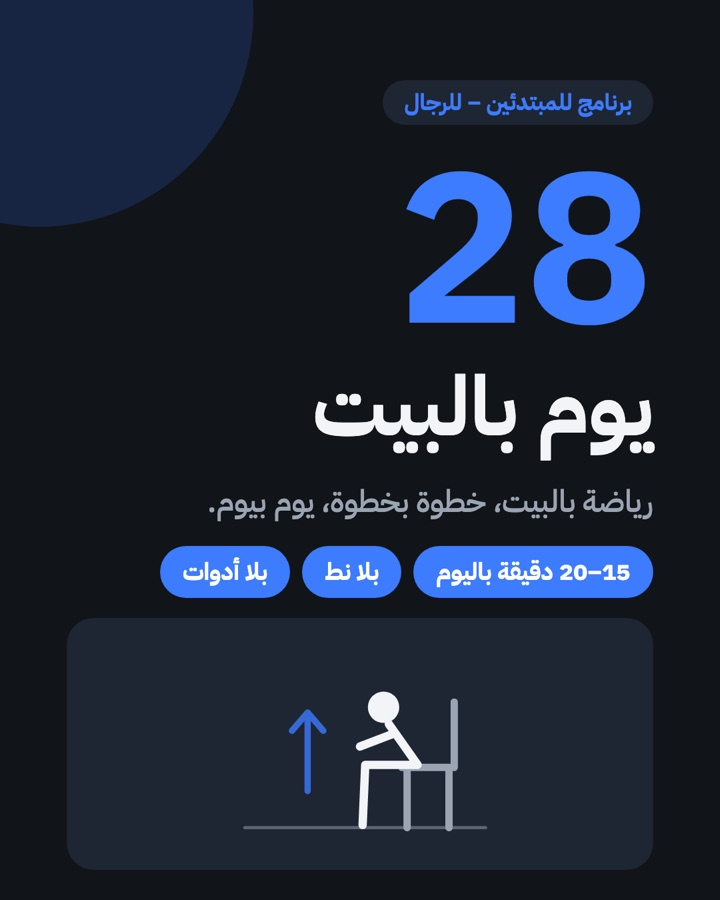
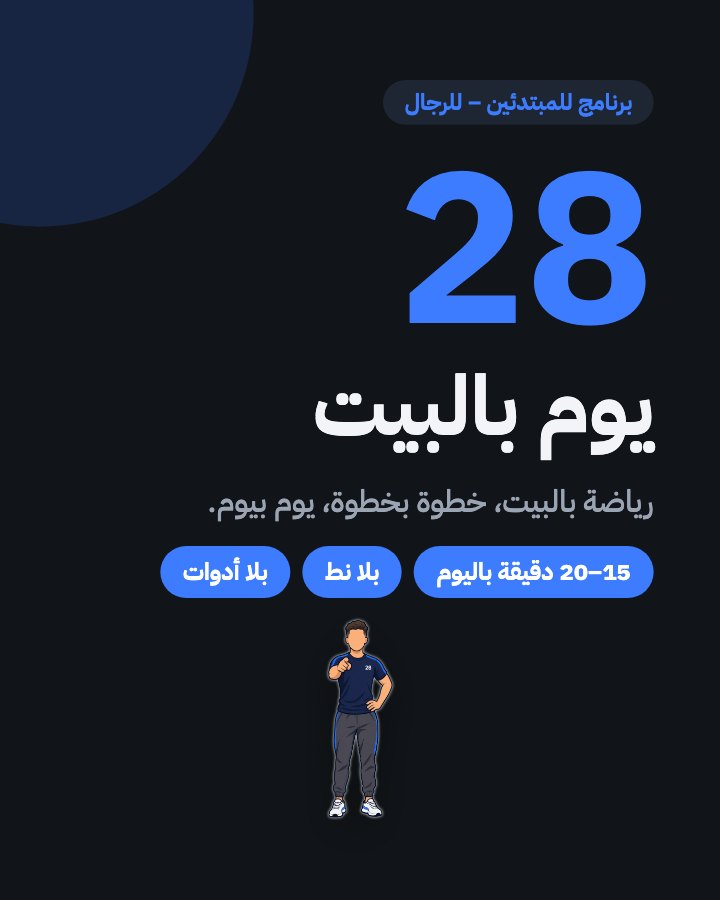
Site uses the new mascot character: new page previews, mascot rep in hero, mascots on plans and final section

diff --git a/index.html b/index.html
@@ -7,7 +7,7 @@
 <meta name="description" content="برنامج رياضة بالبيت للمبتدئين: 28 يوم جاهزين، 15 لـ20 دقيقة باليوم، بلا نط وبلا أدوات. نسخة للنساء ونسخة للرجال، PDF على تلفونك بـ15$.">
 <meta property="og:title" content="28 يوم بالبيت">
 <meta property="og:description" content="رياضة بالبيت، 15 لـ20 دقيقة باليوم، بلا نط وبلا أدوات.">
-<meta property="og:image" content="img/cover-women.jpg">
+<meta property="og:image" content="https://bilbeit.kachakech.tech/img/cover-women.jpg">
 <meta name="theme-color" content="#FBF5EF">
 <link rel="icon" href="img/favicon.svg" type="image/svg+xml">
 <link rel="preconnect" href="https://fonts.googleapis.com">
@@ -51,21 +51,8 @@
         <div class="phone"><img src="img/cover-women.jpg" alt="" width="720" height="900"></div>
         <div class="phone phone-back"><img src="img/cover-men.jpg" alt="" width="720" height="900"></div>
         <div class="fig-card">
-          <!-- SMIL animation: works in Safari, Chrome and Firefox (CSS "d" animation does not work in Safari). -->
-          <svg viewBox="0 0 600 420" class="hero-svg"><line x1="80" y1="370" x2="540" y2="370" class="ground"/>
-            <path d="M380 255 H480 M480 255 V130 M390 255 V370 M470 255 V370" class="prop"/>
-            <path d="M200 300 V150 M170 185 L200 150 L230 185" class="hint">
-              <animateTransform attributeName="transform" type="translate" values="0 0;0 -18;0 0" dur="1.5s" repeatCount="indefinite"/></path>
-            <circle cx="345" cy="140" r="30" class="fig">
-              <animate attributeName="cx" values="345;345;330;330;345" keyTimes="0;.15;.5;.65;1" dur="3s" repeatCount="indefinite"
-                       calcMode="spline" keySplines=".45 0 .55 1;.45 0 .55 1;.45 0 .55 1;.45 0 .55 1"/>
-              <animate attributeName="cy" values="140;140;62;62;140" keyTimes="0;.15;.5;.65;1" dur="3s" repeatCount="indefinite"
-                       calcMode="spline" keySplines=".45 0 .55 1;.45 0 .55 1;.45 0 .55 1;.45 0 .55 1"/></circle>
-            <path d="M355 172 L410 250 M410 250 L310 250 L305 365 M365 190 L300 215" class="fig">
-              <animate attributeName="d" keyTimes="0;.15;.5;.65;1" dur="3s" repeatCount="indefinite" calcMode="spline"
-                       keySplines=".45 0 .55 1;.45 0 .55 1;.45 0 .55 1;.45 0 .55 1"
-                       values="M355 172 L410 250 M410 250 L310 250 L305 365 M365 190 L300 215;M355 172 L410 250 M410 250 L310 250 L305 365 M365 190 L300 215;M330 95 L335 225 M335 225 L328 295 L310 365 M332 125 L262 150;M330 95 L335 225 M335 225 L328 295 L310 365 M332 125 L262 150;M355 172 L410 250 M410 250 L310 250 L305 365 M365 190 L300 215"/></path>
-          </svg>
+          <!-- Two poses of the same move swap like a rep (sit-w-a = standing, sit-w-b = down). -->
+          <div class="rep"><img class="rep-a" src="img/sit-w-a.webp" alt="" width="380" height="640"><img class="rep-b" src="img/sit-w-b.webp" alt="" width="380" height="640"></div>
           <p class="fig-cap"><b>قعود وقيام عن الكرسي</b><span>10 مرات · يوم 1</span></p>
         </div>
       </div>
@@ -128,9 +115,12 @@
       <p class="sub center">دفعة وحدة، بلا اشتراك. الملف إلك للأبد.</p>
       <div class="plans">
         <article class="plan" id="buy-women">
-          <span class="chip">للنساء</span>
-          <h3>28 يوم بالبيت – للنساء</h3>
-          <p class="price"><span>15$</span> مرة وحدة</p>
+          <div class="plan-head">
+            <div><span class="chip">للنساء</span>
+              <h3>28 يوم بالبيت – للنساء</h3>
+              <p class="price"><span>15$</span> مرة وحدة</p></div>
+            <img src="img/mascot-w.webp" alt="" width="308" height="720" loading="lazy">
+          </div>
           <ul class="ticks">
             <li>28 يوم جاهزين، 15 لـ20 دقيقة</li><li>13 حركة مشروحة بالرسم</li>
             <li>بلا نط، والجيران ما بيسمعوا شي</li><li>اختبار، جدول، وصفحة سلامة</li>
@@ -138,9 +128,12 @@
           <a class="btn btn-block" data-checkout="women" href="#">اشتري نسخة النساء</a>
         </article>
         <article class="plan plan-dark" id="buy-men">
-          <span class="chip">للرجال</span>
-          <h3>28 يوم بالبيت – للرجال</h3>
-          <p class="price"><span>15$</span> مرة وحدة</p>
+          <div class="plan-head">
+            <div><span class="chip">للرجال</span>
+              <h3>28 يوم بالبيت – للرجال</h3>
+              <p class="price"><span>15$</span> مرة وحدة</p></div>
+            <img src="img/mascot-m.webp" alt="" width="235" height="720" loading="lazy">
+          </div>
           <ul class="ticks">
             <li>28 يوم جاهزين، 15 لـ20 دقيقة</li><li>13 حركة مشروحة بالرسم</li>
             <li>قوة ولياقة بالبيت، بلا نادي</li><li>اختبار، جدول، وصفحة سلامة</li>
@@ -198,6 +191,7 @@
   <section class="sec final">
     <svg class="waves" viewBox="0 0 1440 400" preserveAspectRatio="xMidYMid slice" aria-hidden="true"><g class="bg-drift"><path d="M0 70 Q90 48 180 70 T360 70 T540 70 T720 70 T900 70 T1080 70 T1260 70 T1440 70 T1620 70 T1800 70 T1980 70 T2160 70 T2340 70 T2520 70 T2700 70 T2880 70"/><path d="M0 340 Q90 312 180 340 T360 340 T540 340 T720 340 T900 340 T1080 340 T1260 340 T1440 340 T1620 340 T1800 340 T1980 340 T2160 340 T2340 340 T2520 340 T2700 340 T2880 340"/></g></svg>
     <div class="wrap center">
+      <div class="duo" aria-hidden="true"><img src="img/mascot-w.webp" alt="" width="308" height="720" loading="lazy"><img src="img/mascot-m.webp" alt="" width="235" height="720" loading="lazy"></div>
       <h2 class="h2">أحسن يوم لتبلّش هو اليوم.</h2>
       <p class="sub">ولو 10 دقايق.</p>
       <div class="cta-row center-row">

diff --git a/style.css b/style.css
@@ -62,12 +62,13 @@ h1 { font-size: clamp(36px, 9vw, 64px); line-height: 1.2; margin: var(--s2) 0; }
 .phone-back { right: auto; left: 4%; top: 46px; width: 52%; transform: rotate(-6deg); z-index: 1; border-color: var(--dark); }
 .fig-card { position: absolute; bottom: 0; left: 0; width: 50%; background: var(--surface); border-radius: var(--r-md);
             box-shadow: var(--shadow); padding: 8px; z-index: 3; }
-.fig-card svg { width: 100%; height: auto; display: block; }
-.fig { fill: none; stroke: var(--text); stroke-width: 16; stroke-linecap: round; stroke-linejoin: round; }
-circle.fig { fill: var(--text); stroke: none; }
-.prop { fill: none; stroke: #9c8d86; stroke-width: 14; stroke-linecap: round; }
-.ground { stroke: #9c8d86; stroke-width: 6; stroke-linecap: round; opacity: .5; }
-.hint { fill: none; stroke: var(--accent); stroke-width: 12; stroke-linecap: round; stroke-linejoin: round; opacity: .85; }
+/* Mascot rep: two poses swap like one repetition. */
+.rep { position: relative; height: 190px; background: var(--soft); border-radius: 14px; margin-bottom: 8px; }
+.rep img { position: absolute; inset: 10px 0 0; height: calc(100% - 10px); width: 100%; object-fit: contain; object-position: center bottom; }
+.rep-b { opacity: 0; animation: rep-b 3s ease-in-out infinite; }
+.rep-a { animation: rep-a 3s ease-in-out infinite; }
+@keyframes rep-a { 0%, 38% { opacity: 1; } 46%, 88% { opacity: 0; } 96%, 100% { opacity: 1; } }
+@keyframes rep-b { 0%, 38% { opacity: 0; } 46%, 88% { opacity: 1; } 96%, 100% { opacity: 0; } }
 .fig-cap { display: flex; flex-direction: column; padding: 0 12px 6px; line-height: 1.4; }
 .fig-cap b { font-size: 15px; }
 .fig-cap span { font-size: 13px; color: var(--accent-strong); font-weight: 700; }
@@ -128,6 +129,9 @@ circle.fig { fill: var(--text); stroke: none; }
 .plan { background: var(--bg); border: 2px solid var(--soft); border-radius: var(--r-lg); padding: var(--s4) var(--s3);
         display: flex; flex-direction: column; gap: var(--s2); scroll-margin-top: 90px; }
 .plan .chip { align-self: flex-start; }
+.plan-head { display: flex; align-items: flex-end; justify-content: space-between; gap: 12px; }
+.plan-head > div { display: flex; flex-direction: column; gap: var(--s1); align-items: flex-start; }
+.plan-head img { flex: none; height: 170px; width: auto; margin-bottom: -8px; }
 .plan h3 { font-size: 24px; }
 .price { font-size: 17px; color: var(--muted); }
 .price span { font-size: 48px; font-weight: 700; color: var(--text); margin-left: 6px; }
@@ -165,6 +169,8 @@ details p { padding: 0 24px 20px; color: var(--muted); }
 
 .final { background: var(--soft); }
 .final .sub { margin-bottom: var(--s3); }
+.duo { display: flex; justify-content: center; align-items: flex-end; gap: 4px; margin-bottom: var(--s2); }
+.duo img { height: 190px; width: auto; }
 
 /* Footer */
 .foot { background: var(--dark); color: var(--dark-muted); padding: var(--s5) 0; }
@@ -225,6 +231,8 @@ details p { padding: 0 24px 20px; color: var(--muted); }
   .hero { padding: var(--s6) 0; }
   .hero-in { grid-template-columns: 1.1fr .9fr; }
   .hero-art { height: 500px; max-width: none; }
+  .rep { height: 230px; }
+  .duo img { height: 230px; }
   .swaps { grid-template-columns: repeat(3, 1fr); }
   .grid3 { grid-template-columns: repeat(3, 1fr); }
   .pages { grid-template-columns: repeat(4, 1fr); }
@@ -238,7 +246,8 @@ details p { padding: 0 24px 20px; color: var(--muted); }
 @media (min-width: 1024px) { .steps { grid-template-columns: repeat(4, 1fr); } .steps li { flex-direction: column; } }
 @media (prefers-reduced-motion: reduce) {
   html { scroll-behavior: auto; }
-  .bg-drift { animation: none !important; }
+  .bg-drift, .rep img { animation: none !important; }
+  .rep-a { opacity: 1; } .rep-b { opacity: 0; }
   .btn, summary::after { transition: none; }
 }
 .center-row .btn { flex: 0 1 260px; }
